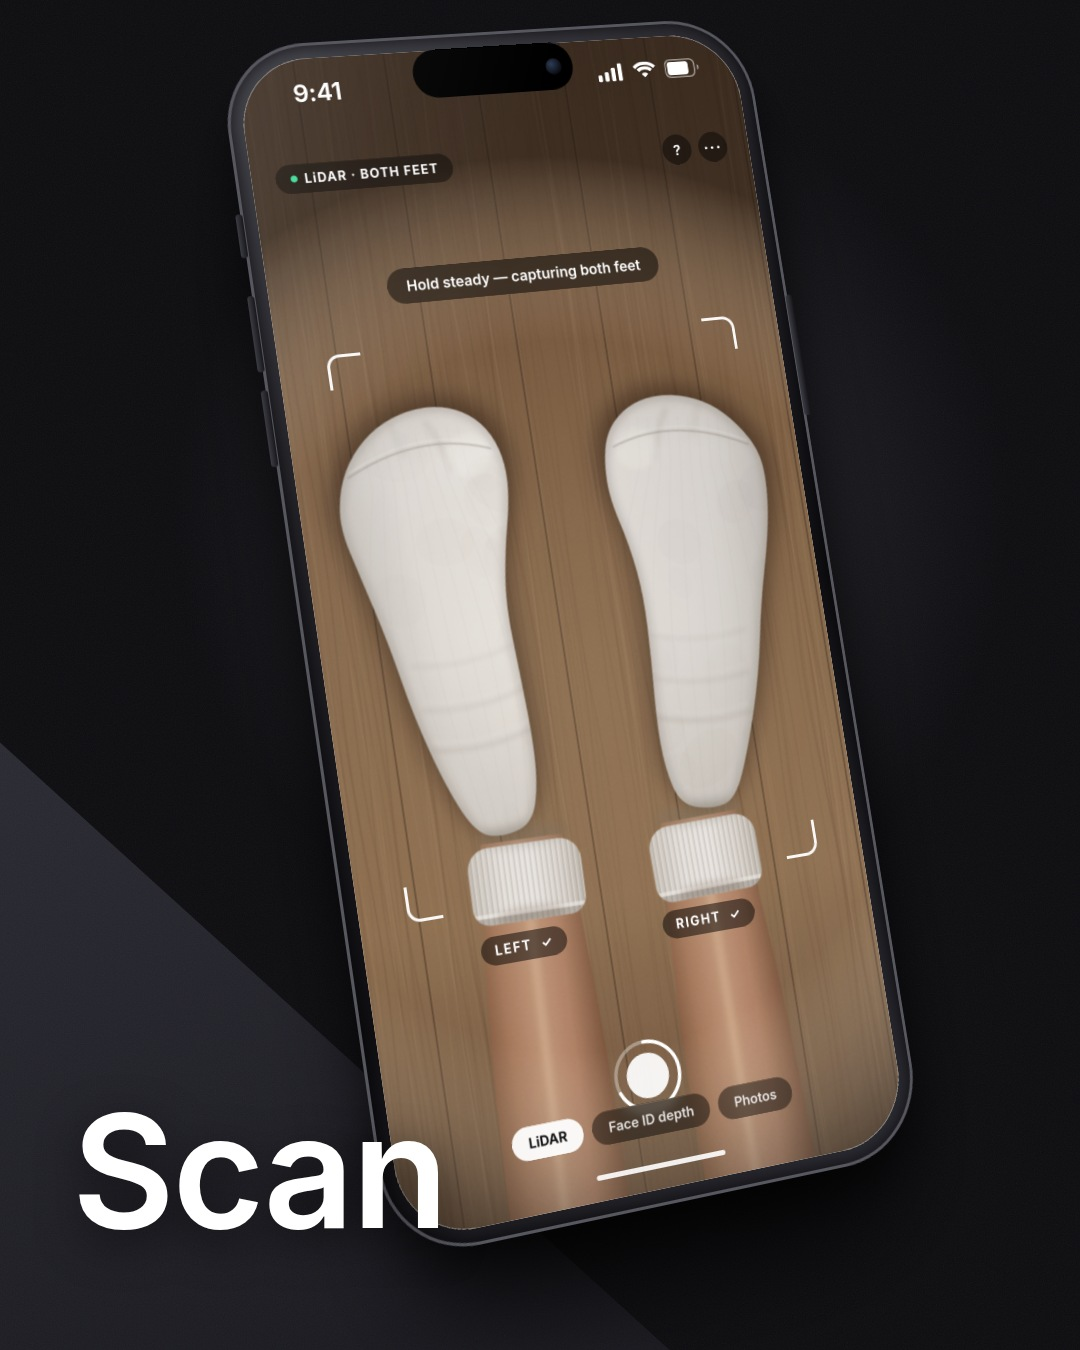
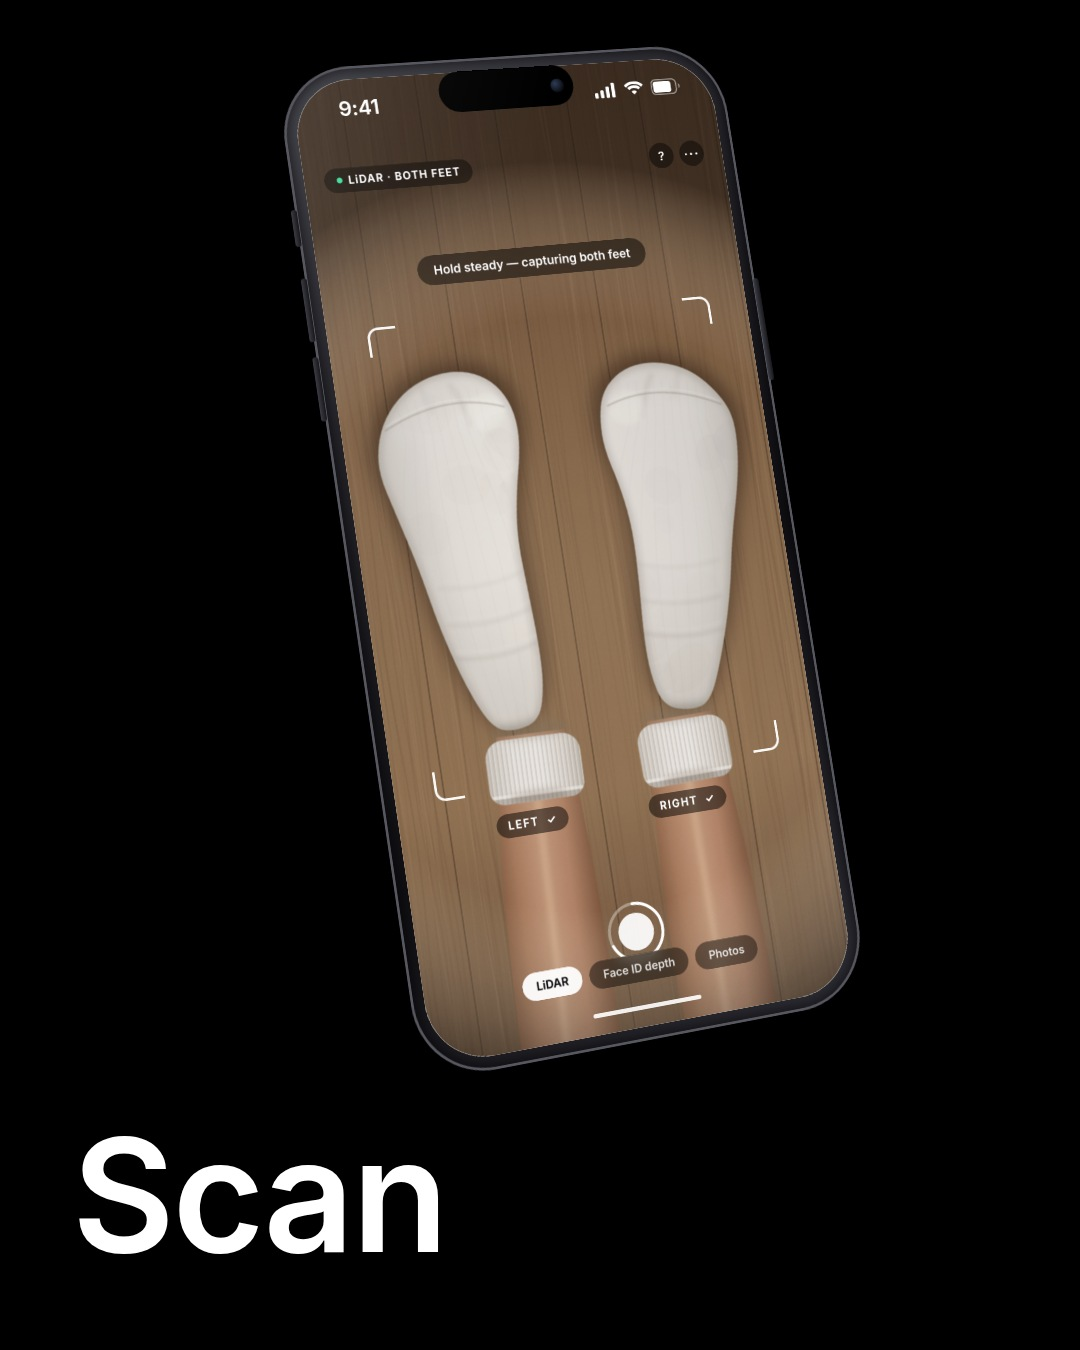
pins: word clear of the phone, pure black scene
Prompts now confine the phone to the upper three quarters and require
clear black space between it and the caption ('must NOT touch, overlap
or cross the phone'). Rendered pins match: device scaled to 0.84 so the
whole phone fits above the caption band, and the leftover studio glow,
floor wedge, contact shadow and grain are gone — flat #000 behind
everything.

Claude-Session: https://claude.ai/code/session_01DF12MeCQsBsp8TmeobhWMm

diff --git a/_tools/pins-scene.css b/_tools/pins-scene.css
@@ -11,32 +11,26 @@
 
 html, body {
   width: 1080px; height: 1350px; overflow: hidden;
-  background: #0D0D10;
+  background: #000;
   font-family: Inter, sans-serif;
   -webkit-font-smoothing: antialiased;
 }
 
 /* ---------- scene ---------- */
 
-.scene { position: absolute; inset: 0; }
+.scene { position: absolute; inset: 0; background: #000; }
 
 /* big soft key light behind the device */
 .scene .glow {
   position: absolute; inset: -10%;
-  background: radial-gradient(46% 38% at 54% 40%, #2E2E36 0%, rgba(20,20,24,0) 70%);
+  background: none;
 }
 
 /* diagonal concrete wedge, like the reference floor split */
-.wedge {
-  position: absolute; inset: 0;
-  clip-path: polygon(0 62%, 100% 88%, 100% 100%, 0 100%);
-  background: linear-gradient(115deg, #33333C 0%, #1C1C22 78%);
-}
-.wedge.left  { clip-path: polygon(0 55%, 62% 100%, 0 100%); background: linear-gradient(160deg, #3A3A45 0%, #1A1A20 85%); }
-.wedge.none  { display: none; }
+.wedge { display: none; }
 
 /* film grain over the whole scene so the dark isn't flat */
-.grain { position: absolute; inset: 0; opacity: 0.05; }
+.grain { display: none; }
 
 /* ---------- device ---------- */
 
@@ -48,11 +42,12 @@ html, body {
 .device {
   position: absolute;
   width: 560px; height: 1188px;
-  left: 50%; top: 46%;
+  left: 50%; top: 41%;
   margin: -594px 0 0 -280px;      /* center, then nudge via --tx/--ty */
   transform:
     translate(var(--tx, 0px), var(--ty, 0px))
-    rotateX(var(--rx, 0deg)) rotateY(var(--ry, 0deg)) rotateZ(var(--rz, 0deg));
+    rotateX(var(--rx, 0deg)) rotateY(var(--ry, 0deg)) rotateZ(var(--rz, 0deg))
+    scale(var(--s, 0.84));
   border-radius: 88px;
   /* titanium body: edge catch-lights top-left, falloff bottom-right */
   background: linear-gradient(145deg, #4A4A52 0%, #232329 30%, #101014 62%, #2E2E36 100%);
@@ -114,17 +109,15 @@ html, body {
 .contact {
   position: absolute; left: 50%; width: 620px; height: 110px;
   transform: translateX(-50%);
-  background: radial-gradient(50% 50% at 50% 50%, rgba(0,0,0,0.7) 0%, rgba(0,0,0,0) 70%);
-  filter: blur(6px);
+  background: none;
 }
 
 /* ---------- word + brand ---------- */
 
 .word {
-  position: absolute; left: 72px; bottom: 96px; z-index: 60;
+  position: absolute; left: 72px; bottom: 72px; z-index: 60;
   font-size: 158px; font-weight: 600; letter-spacing: -0.015em; color: #fff;
   line-height: 1.06;
-  text-shadow: 0 12px 44px rgba(0,0,0,0.55);
 }
 
 .brandchip {

diff --git a/pins/NANOBANANA.md b/pins/NANOBANANA.md
@@ -38,8 +38,10 @@ Four requirements, and one of them can't come from the model:
 > natural sensor grain across the whole frame. Indistinguishable from a real
 > photo taken by a product photographer.
 >
-> The phone occupies the upper two thirds of the frame. The bottom quarter of
-> the image is pure flat black, reserved for the caption word.
+> The phone is fully contained in the upper three quarters of the frame — its
+> bottom edge, including any reflection, ends well above the lower quarter.
+> The bottom quarter of the image is pure flat black, empty, reserved for the
+> caption word; nothing enters it.
 >
 > The attached screenshot is the phone's screen. Keep every UI element on it
 > exactly as it is — the status bar, the "LiDAR · BOTH FEET" pill, the "Hold
@@ -61,8 +63,10 @@ Four requirements, and one of them can't come from the model:
 > drawn or illustrated, discard it entirely and generate a real photograph in
 > its place.
 >
-> Then add the caption word "Scan" — the complete word, every letter fully
-> visible, drawn IN FRONT of everything so nothing covers any part of it.
+> Then add the caption word "Scan" in the empty black band below the phone —
+> the complete word, every letter fully visible, with clear black space
+> between the word and the phone. The word must NOT touch, overlap or cross
+> the phone at any point.
 > Font: Inter SemiBold (weight 600 — medium weight, NOT bold or heavy),
 > white, no underline. Size: the capital letter is exactly one eighth of the
 > image height tall. Position: bottom-left corner of the image — the gap
@@ -90,8 +94,10 @@ Four requirements, and one of them can't come from the model:
 > natural sensor grain across the whole frame. Indistinguishable from a real
 > photo taken by a product photographer.
 >
-> The phone occupies the upper two thirds of the frame. The bottom quarter of
-> the image is pure flat black, reserved for the caption word.
+> The phone is fully contained in the upper three quarters of the frame — its
+> bottom edge, including any reflection, ends well above the lower quarter.
+> The bottom quarter of the image is pure flat black, empty, reserved for the
+> caption word; nothing enters it.
 >
 > The attached screenshot is the phone's screen. Place it on the display
 > exactly as it is — every number, label, gauge bar, foot outline and word
@@ -100,8 +106,10 @@ Four requirements, and one of them can't come from the model:
 > sits under glass with a subtle reflection, and the white interface casts no
 > light onto the black background.
 >
-> Then add the caption word "Analyze" — the complete word, every letter fully
-> visible, drawn IN FRONT of everything so nothing covers any part of it.
+> Then add the caption word "Analyze" in the empty black band below the phone —
+> the complete word, every letter fully visible, with clear black space
+> between the word and the phone. The word must NOT touch, overlap or cross
+> the phone at any point.
 > Font: Inter SemiBold (weight 600 — medium weight, NOT bold or heavy),
 > white, no underline. Size: the capital letter is exactly one eighth of the
 > image height tall — it is a longer word, so at
@@ -129,8 +137,10 @@ Four requirements, and one of them can't come from the model:
 > natural sensor grain across the whole frame. Indistinguishable from a real
 > photo taken by a product photographer.
 >
-> The phone occupies the upper two thirds of the frame. The bottom quarter of
-> the image is pure flat black, reserved for the caption word.
+> The phone is fully contained in the upper three quarters of the frame — its
+> bottom edge, including any reflection, ends well above the lower quarter.
+> The bottom quarter of the image is pure flat black, empty, reserved for the
+> caption word; nothing enters it.
 >
 > The attached screenshot is the phone's screen. Place it on the display
 > exactly as it is — every shoe name, brand line, row number, size line and
@@ -139,8 +149,10 @@ Four requirements, and one of them can't come from the model:
 > the screen — keep that cut. The screen is emissive: it glows faintly and
 > sits under glass with a subtle reflection.
 >
-> Then add the caption word "Choose" — the complete word, every letter fully
-> visible, drawn IN FRONT of everything so nothing covers any part of it.
+> Then add the caption word "Choose" in the empty black band below the phone —
+> the complete word, every letter fully visible, with clear black space
+> between the word and the phone. The word must NOT touch, overlap or cross
+> the phone at any point.
 > Font: Inter SemiBold (weight 600 — medium weight, NOT bold or heavy),
 > white, no underline. Size: the capital letter is exactly one eighth of the
 > image height tall. Position: bottom-left corner of the image — the gap
@@ -155,7 +167,8 @@ Four requirements, and one of them can't come from the model:
 
 ## Checking a result
 
-1. The word: complete, bottom-left, medium weight (not heavy), same letter
+1. The word: complete, bottom-left, sitting clear of the phone with black
+   space between them — no overlap. Medium weight (not heavy), same letter
    height across all three, no underline, no sparkle/star glyph.
 2. Background truly black, no glow or shadow.
 3. Screen text matches the attachment — brand lines (NIKE not MIKE, JORDAN
